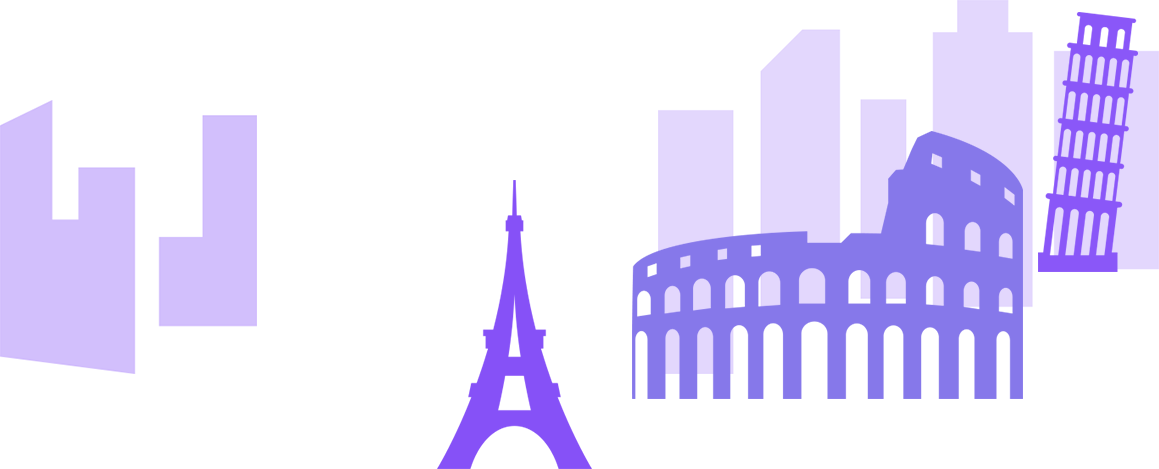
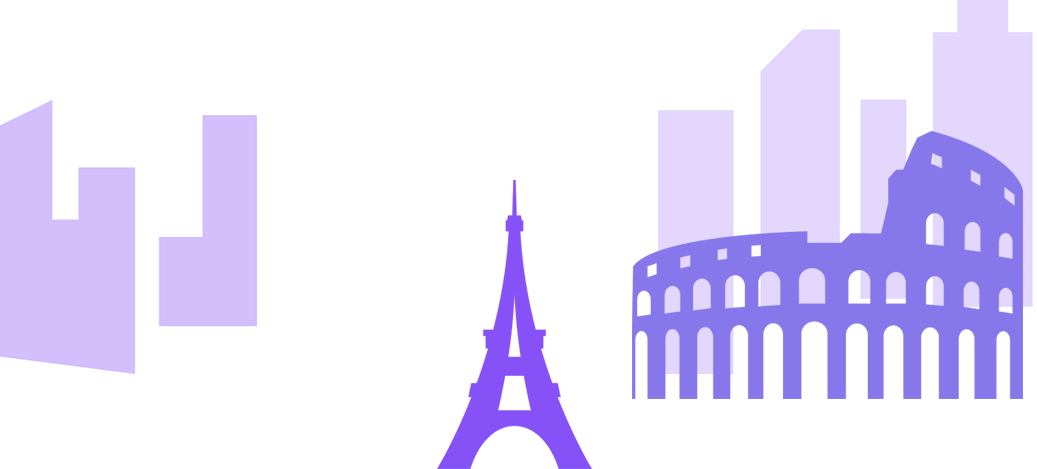
partrial mobile commit

Changed region(s): [[0.3703, 0.0, 1.0, 1.0], [0.0309, 0.209, 0.2469, 0.806]]

diff --git a/src/components/FirstScroll.vue b/src/components/FirstScroll.vue
@@ -2,8 +2,9 @@
     <div id="first-scroll" class="wrapper first-scroll">
         <div class="background-first-scroll">
                 <div class="background-first-scroll__sights background-style"></div>
+                <div class="background-first-scroll__piza background-style"></div>
                 <div :style="{ margin: `0 0 -${scrolled / 300}%  -${scrolled / 80}%` }"  class="background-first-scroll__field-left background-style"></div>
-                <div :style="{ margin: `0 -${scrolled / 300}% -${scrolled / 80}% 0` }" class="background-first-scroll__field-right background-style"></div>
+                <div :style="{ margin: `0 -${scrolled / 300}% -${scrolled / 120}% 0` }" class="background-first-scroll__field-right background-style"></div>
                 <div :style="{ margin: `${scrolled / 20}px`, transform: `scale(${1 + scrolled / 5000 })` }" class="background-first-scroll__man background-style"></div>
                 <div :style="{ margin: `0 -${scrolled / 200}% -${scrolled / 70}% 0`, transform: `scale(${1 - scrolled / 5000 })` }" class="background-first-scroll__bush background-style"></div>
         </div>
@@ -285,6 +286,16 @@ export default {
         z-index: 1;
         right: 0;
         margin: auto;
+        &__piza {
+            background-image: url('../assets/img/piza.png');
+            height: 500px;
+            width: 150px;
+            background-repeat: no-repeat;
+            background-size: contain;
+            position: absolute;
+            bottom: 30px;
+            right: 0;
+        }
         &__sights {
             background-image: url('../assets/img/sights.png');
             height: 50%;
@@ -348,9 +359,16 @@ export default {
         transform: translateY(-100px);
     }
     @media (max-width: 768px), (max-height: 420px){
+        .layout {
+            max-width: 320px;
+        }
+        .heading {
+            padding: 0;
+        }
         .first-scroll {
             padding: 0 10px;
             box-sizing: border-box;
+            height: 590px;
         }
         .logo {
             width: 175px;
@@ -360,15 +378,13 @@ export default {
             margin: 0;
         }
         .title {
-            font-size: 32px;
-            line-height: 35px;
+            font-size: 25px;
+            line-height: 30px;
+            margin: 20px 0 0 0;
         }
         .descr {
             font-size: 14px;
             line-height: 16px;
-        }
-        .first-scroll {
-            height: 650px;
         }
         .background-first-scroll {
              &__man {
@@ -409,17 +425,19 @@ export default {
              }
          }
     }
-    @media (max-height: 420px) {
-        .layout {
-            width: 80%;
-            max-width: 320px;
-        }
-        .background-first-scroll__field-left {
-            left: 188px;
-        }
-    }
-    @media (max-width: 500px) {
+    @media (max-width: 500px), (max-height: 420px) {
         .background-first-scroll {
+            &__piza {
+                background-image: url(/static/img/piza.63efe97.png);
+                height: 200px;
+                width: 80px;
+                background-repeat: no-repeat;
+                background-size: contain;
+                position: absolute;
+                bottom: 68px;
+                left: 68%;
+                z-index: -1;
+            }
             &__man {
                 background-size: contain;
                 width: 224px;
@@ -435,17 +453,18 @@ export default {
                 width: 600px;
                 right: -300px;
                 bottom: 0;
+                z-index: 20;
             }
             &__field-left {
                 background-size: cover;
                 height: 200px;
                 width: 600px;
                 bottom: 0;
-                left: 0;
+                left: 100px;
             }
             &__field-right {
                 height: 200px;
-                width: 600px;
+                width: 300px;
                 background-position: bottom right;
                 background-size: cover;
                 bottom: 0;

diff --git a/src/components/SecondScroll.vue b/src/components/SecondScroll.vue
@@ -9,7 +9,7 @@
                         <img class="icon" v-else src="../assets/img/eye-icon.svg" />
                         <div class="options__descr">
                             <h3 :class="{ 'active-description': isFirstDescription }" class="options__name">How it works</h3>
-                            <p v-if="isFirstDescription" class="options__text">Select a city and pick a tour you like. Guide by user scores and reviews</p>
+                            <p :class="{ 'active-description-animation' : isFirstDescription }" v-if="isFirstDescription" class="options__text">Select a city and pick a tour you like. Guide by user scores and reviews</p>
                         </div>
                     </div>
                 </div>
@@ -19,7 +19,7 @@
                         <img class="icon" v-else src="../assets/img/point-icon.svg" />
                         <div class="options__descr">
                             <h3 :class="{ 'active-description': isSecondDescription }" class="options__name">Friends</h3>
-                            <p v-if="isSecondDescription" class="options__text">Select a city and pick a tour you like. Guide by user scores and reviews</p>
+                            <p :class="{ 'active-description-animation' : isSecondDescription }" v-if="isSecondDescription" class="options__text">Select a city and pick a tour you like. Guide by user scores and reviews</p>
                         </div>
                     </div>
                 </div>
@@ -29,7 +29,7 @@
                         <img class="icon" src="../assets/img/smile-icon.svg" v-else />
                         <div class="options__descr">
                             <h3 :class="{ 'active-description': isThirdDescription }" class="options__name">Travel</h3>
-                            <p v-if="isThirdDescription" class="options__text">Select a city and pick a tour you like. Guide by user scores and reviews</p>
+                            <p :class="{ 'active-description-animation' : isThirdDescription }" v-if="isThirdDescription" class="options__text">Select a city and pick a tour you like. Guide by user scores and reviews</p>
                         </div>
                     </div>
                 </div>
@@ -101,7 +101,7 @@ export default {
   data () {
     return {
       fill: { gradient: ['#9b70fa', '#590ff2'] },
-      durationValue: 10000,
+      durationValue: 15000,
       progressValue: 75,
       currentProgress: 0,
       scrolled: 0,
@@ -195,6 +195,7 @@ export default {
     }
     .options-container {
         width: 40%;
+        height: 400px;
         &__heading {
             margin-bottom: 30px;
             color: #292a4b;
@@ -298,10 +299,24 @@ export default {
         align-items: end;
         color: #292a4b;
     }
+    .active-description-animation {
+        animation: animate-text ease 1s;
+    }
+    @keyframes animate-text {
+        0% {
+            height: 0;
+            opacity: 0;
+        }
+        100% {
+            height: 50px;
+            opacity: 1;
+        }
+    }
     @media (max-width: 768px), (max-height: 420px){
         .options-container {
             width: 90%;
             padding: 20px 0 40px;
+            height: 200px;
         }
         .layout-second-scroll {
             padding: 0;

diff --git a/src/components/SixthScroll.vue b/src/components/SixthScroll.vue
@@ -60,6 +60,9 @@
 </script>
 
 <style scoped lang="scss">
+    .sixth-scroll {
+        background-color: #f3f7fb;
+    }
     .background-sixth {
         padding: 150px 0;
         height: 1400px;
@@ -156,8 +159,8 @@
             background-image: url("../assets/img/footer-man.png");
         }
         &__bush {
-            background-image: url('../assets/img/bush.png');
-            background-position: bottom right;
+            background-image: url('../assets/img/footer-bush.png');
+            background-position: bottom left;
             background-size: contain;
             height: 280px;
             width: 1300px;

diff --git a/src/components/illustration/ThirdIllustration.vue b/src/components/illustration/ThirdIllustration.vue
@@ -41,7 +41,7 @@
         width: 214px;
         left: calc(50% - 85px);
         top: 78px;
-        animation: animate-guy 1s ease forwards;
+        animation: animate-guy .7s ease forwards;
         z-index: 3
     }
 
@@ -49,7 +49,7 @@
         width: 215px;
         top: 65px;
         left: calc(50% - 165px);
-        animation: animate-background 1.5s ease forwards;
+        animation: animate-background 1.9s ease forwards;
         z-index: 2
     }
 
@@ -73,9 +73,6 @@
 
     @keyframes animate-background {
         0% {
-            opacity: 0
-        }
-        60% {
             opacity: 0
         }
         to {

diff --git a/index.html b/index.html
@@ -3,6 +3,7 @@
   <head>
     <meta charset="utf-8">
     <meta name="viewport" content="width=device-width,initial-scale=1.0">
+    <link rel="icon" href="./favicon.ico" type="image/x-icon">
     <title>pointguide</title>
   </head>
   <body>

diff --git a/src/components/FourthScroll.vue b/src/components/FourthScroll.vue
@@ -142,7 +142,7 @@
     }
     .fourth-scroll {
         background-color: #f3f7fb;
-        padding: 30px 0 60px;
+        padding: 30px 0 80px;
         box-sizing: border-box;
     }
     .customer-reviews {

diff --git a/src/components/FifthScroll.vue b/src/components/FifthScroll.vue
@@ -165,6 +165,7 @@
     .fifth-scroll {
         padding: 0 20px;
         box-sizing: border-box;
+        background-color: #f3f7fb;
     }
     .press-navigation-mobile {
         display: none;

diff --git a/src/components/ThirdScroll.vue b/src/components/ThirdScroll.vue
@@ -115,6 +115,7 @@
             color: #fff;
             font-size: 22px;
             line-height: 30px;
+            margin: 0;
         }
         &__heading {
             color: #fff;
